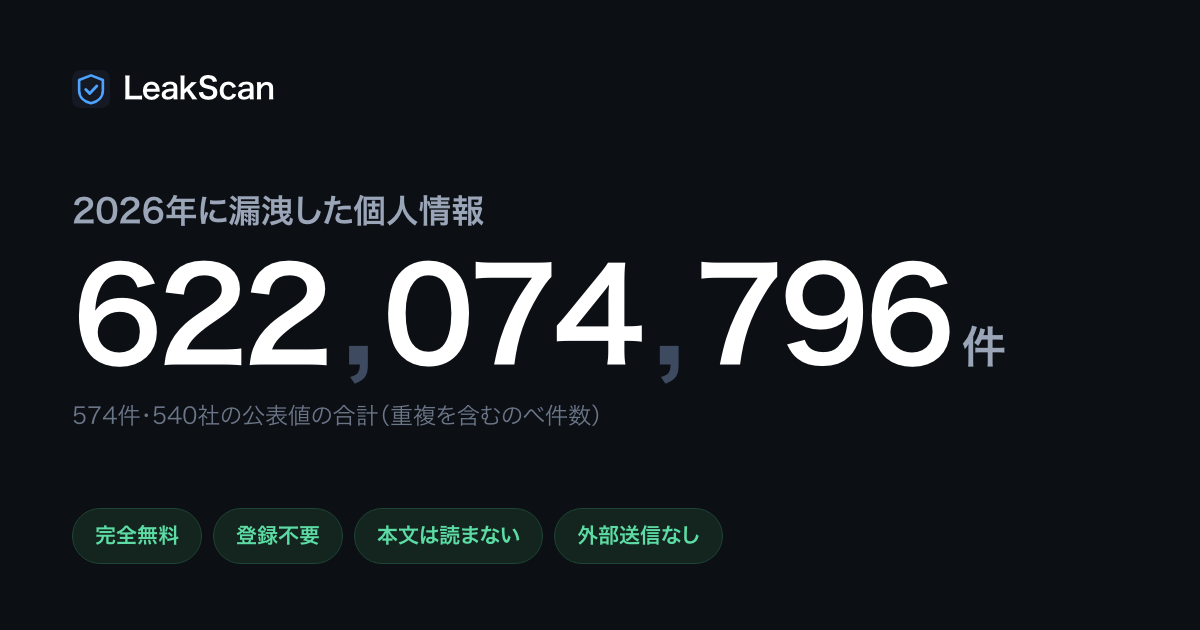
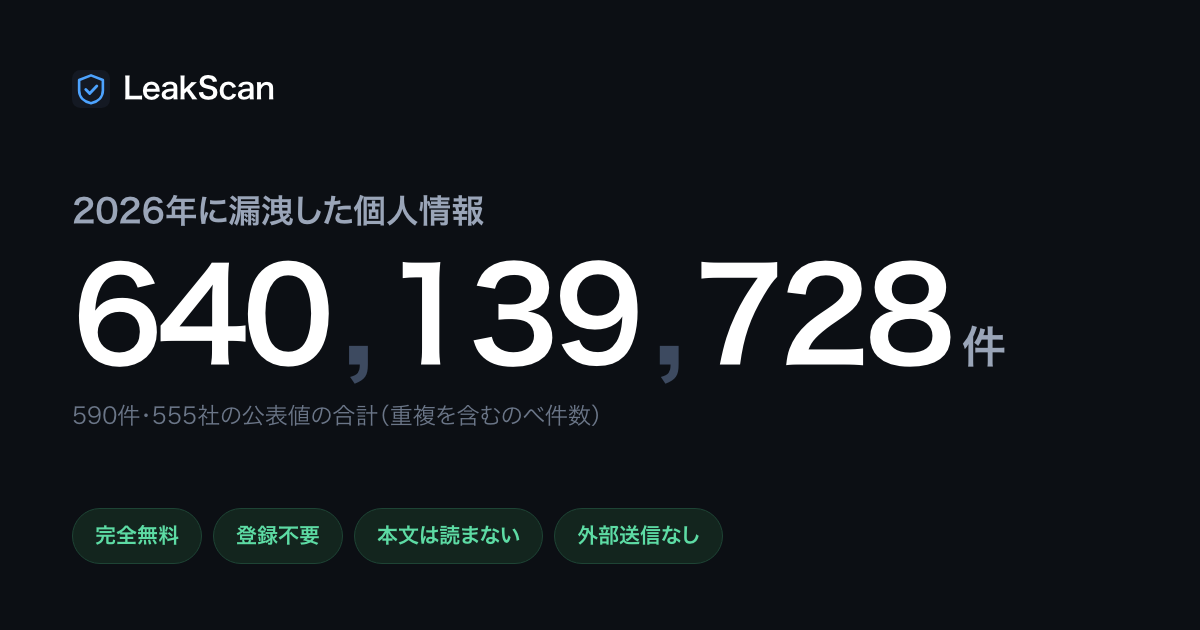
chore: 共有画像を今日の件数で作り直す（622,074,796 → 640,139,728件）
日次ジョブが16件追記して件数が変わったため。
build.mjs の新しい注意書きがそのまま効いた。alt は og.mjs が書いた。

diff --git a/site/index.html b/site/index.html
@@ -17,7 +17,7 @@
 <meta property="og:image" content="https://leakscan.matsunai.com/assets/og.png">
 <meta property="og:image:width" content="1200">
 <meta property="og:image:height" content="630">
-<meta property="og:image:alt" content="2026年に漏洩した個人情報 622,074,796件">
+<meta property="og:image:alt" content="2026年に漏洩した個人情報 640,139,728件">
 <meta name="twitter:card" content="summary_large_image">
 <link rel="stylesheet" href="assets/style.css">
 <link rel="icon" href="assets/logo.svg" type="image/svg+xml">

diff --git a/site/install.html b/site/install.html
@@ -17,7 +17,7 @@
 <meta property="og:image" content="https://leakscan.matsunai.com/assets/og.png">
 <meta property="og:image:width" content="1200">
 <meta property="og:image:height" content="630">
-<meta property="og:image:alt" content="2026年に漏洩した個人情報 622,074,796件">
+<meta property="og:image:alt" content="2026年に漏洩した個人情報 640,139,728件">
 <meta name="twitter:card" content="summary_large_image">
 <link rel="stylesheet" href="assets/style.css">
 <link rel="icon" href="assets/logo.svg" type="image/svg+xml">

diff --git a/site/list.html b/site/list.html
@@ -17,7 +17,7 @@
 <meta property="og:image" content="https://leakscan.matsunai.com/assets/og.png">
 <meta property="og:image:width" content="1200">
 <meta property="og:image:height" content="630">
-<meta property="og:image:alt" content="2026年に漏洩した個人情報 622,074,796件">
+<meta property="og:image:alt" content="2026年に漏洩した個人情報 640,139,728件">
 <meta name="twitter:card" content="summary_large_image">
 <link rel="stylesheet" href="assets/style.css">
 <link rel="icon" href="assets/logo.svg" type="image/svg+xml">

diff --git a/site/privacy.html b/site/privacy.html
@@ -17,7 +17,7 @@
 <meta property="og:image" content="https://leakscan.matsunai.com/assets/og.png">
 <meta property="og:image:width" content="1200">
 <meta property="og:image:height" content="630">
-<meta property="og:image:alt" content="2026年に漏洩した個人情報 622,074,796件">
+<meta property="og:image:alt" content="2026年に漏洩した個人情報 640,139,728件">
 <meta name="twitter:card" content="summary_large_image">
 <link rel="stylesheet" href="assets/style.css">
 <link rel="icon" href="assets/logo.svg" type="image/svg+xml">
